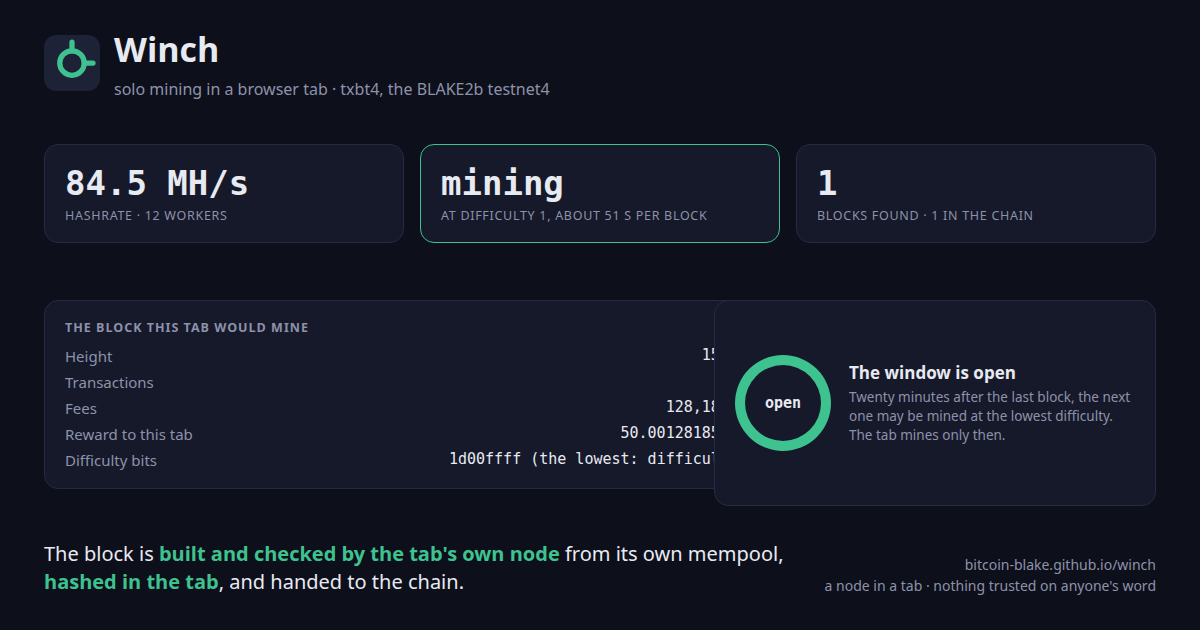
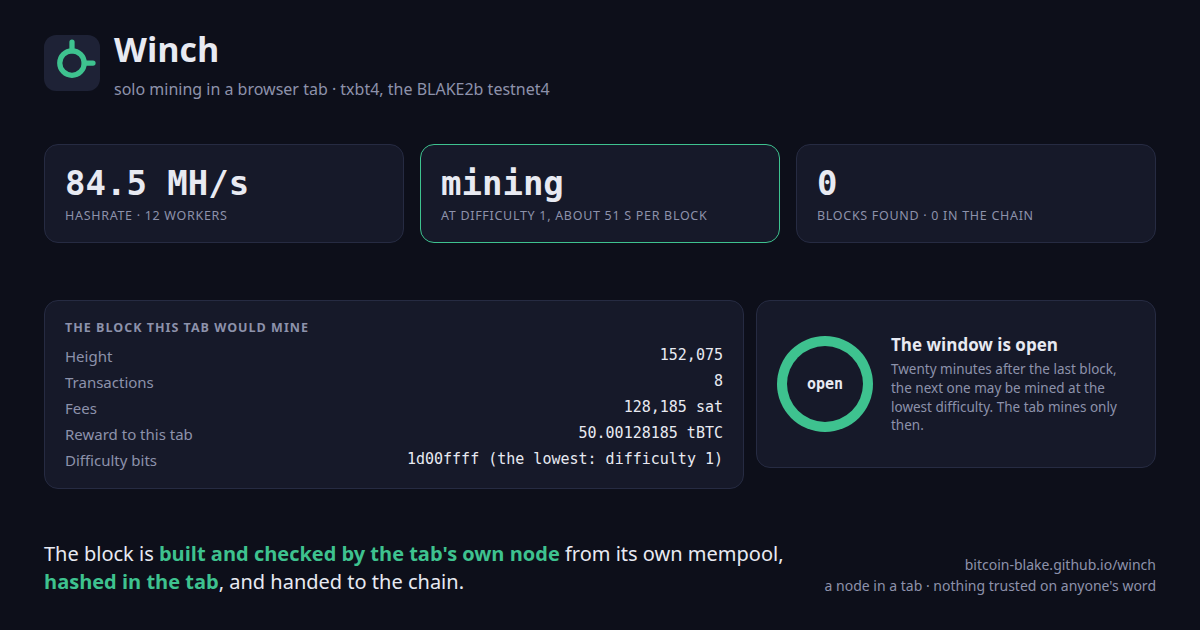
OG card: panels no longer overlap; no blocks claimed

Changed region(s): [[0.3392, 0.5127, 0.9558, 0.754], [0.6783, 0.2714, 0.7092, 0.3016]]

diff --git a/og.html b/og.html
@@ -1,4 +1,5 @@
 <!doctype html><html><head><meta charset="utf-8"><style>
+* { box-sizing:border-box }
 body { margin:0; width:1200px; height:630px; background:#0d0f1a; color:#e8eaf2; font:16px system-ui,-apple-system,"Segoe UI",Roboto,sans-serif; overflow:hidden; position:relative }
 .top { display:flex; align-items:center; gap:14px; padding:26px 44px 0 } .top .name { font-size:34px; font-weight:800 } .top .sub { color:#8d92ab; font-size:16px; margin-top:6px }
 .tiles { display:flex; gap:16px; padding:44px 44px 0 } .tile { flex:1; background:#161929; border:1px solid #262b42; border-radius:14px; padding:18px 20px } .tile.on { border-color:#3ec28f } .tile .big { font-size:34px; font-weight:700; font-family:ui-monospace,Menlo,monospace } .tile .l { color:#8d92ab; font-size:12.5px; text-transform:uppercase; letter-spacing:.7px; margin-top:4px }
@@ -7,7 +8,7 @@ body { margin:0; width:1200px; height:630px; background:#0d0f1a; color:#e8eaf2; 
 .foot { position:absolute; left:44px; right:44px; bottom:34px; display:flex; justify-content:space-between; align-items:flex-end } .foot .l { font-size:20px; line-height:1.4; max-width:780px } .foot .l b { color:#3ec28f } .foot .r { color:#8d92ab; font-size:14px; text-align:right; line-height:1.5 }
 </style></head><body>
 <div class="top"><svg width="56" height="56" viewBox="0 0 32 32"><rect width="32" height="32" rx="7" fill="#1e2236"/><circle cx="16" cy="16" r="7" fill="none" stroke="#3ec28f" stroke-width="3"/><path d="M16 9v-5M23 16h5" stroke="#3ec28f" stroke-width="3" stroke-linecap="round"/></svg><div><div class="name">Winch</div><div class="sub">solo mining in a browser tab · txbt4, the BLAKE2b testnet4</div></div></div>
-<div class="tiles"><div class="tile"><div class="big">84.5 MH/s</div><div class="l">hashrate · 12 workers</div></div><div class="tile on"><div class="big">mining</div><div class="l">at difficulty 1, about 51 s per block</div></div><div class="tile"><div class="big">1</div><div class="l">blocks found · 1 in the chain</div></div></div>
+<div class="tiles"><div class="tile"><div class="big">84.5 MH/s</div><div class="l">hashrate · 12 workers</div></div><div class="tile on"><div class="big">mining</div><div class="l">at difficulty 1, about 51 s per block</div></div><div class="tile"><div class="big">0</div><div class="l">blocks found · 0 in the chain</div></div></div>
 <div class="block"><h3>The block this tab would mine</h3><div class="kv"><span class="l">Height</span><span class="v">152,075</span><span class="l">Transactions</span><span class="v">8</span><span class="l">Fees</span><span class="v">128,185 sat</span><span class="l">Reward to this tab</span><span class="v">50.00128185 tBTC</span><span class="l">Difficulty bits</span><span class="v">1d00ffff (the lowest: difficulty 1)</span></div></div>
 <div class="ring"><div class="c"><b>open</b></div><div><div class="t">The window is open</div><div class="s">Twenty minutes after the last block, the next one may be mined at the lowest difficulty. The tab mines only then.</div></div></div>
 <div class="foot"><div class="l">The block is <b>built and checked by the tab's own node</b> from its own mempool, <b>hashed in the tab</b>, and handed to the chain.</div><div class="r">bitcoin-blake.github.io/winch<br>a node in a tab · nothing trusted on anyone's word</div></div>
